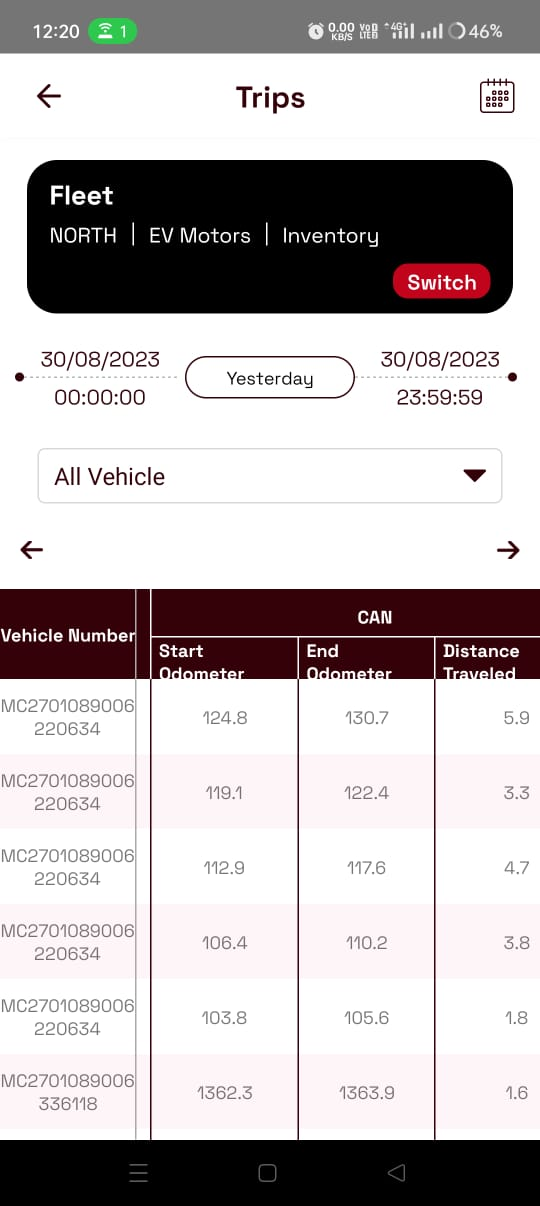
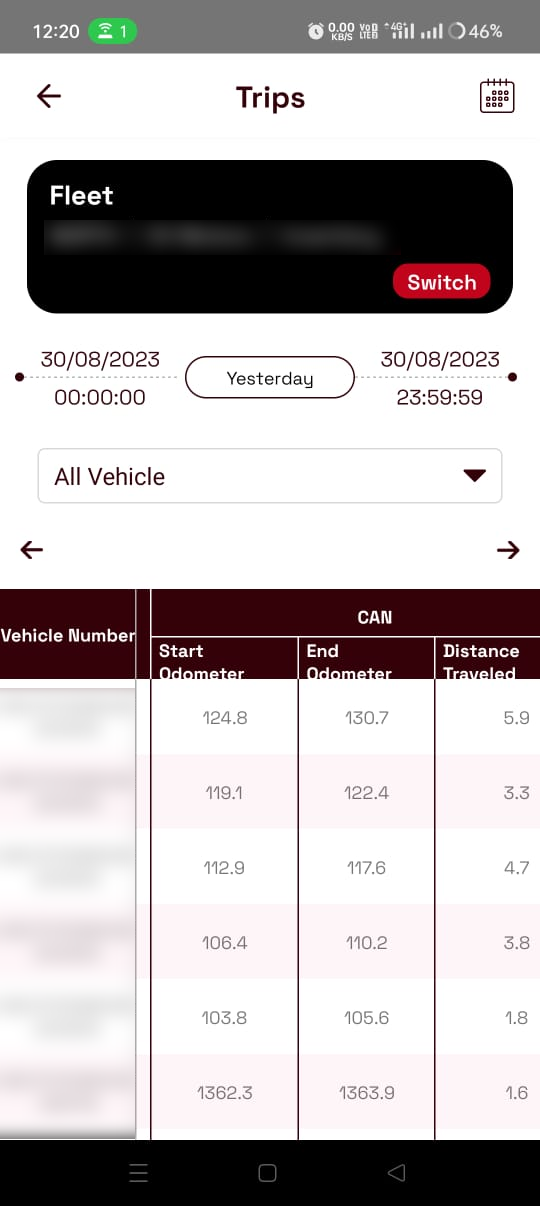
Modified the screenshots to blur sensitive data

diff --git a/index.html b/index.html
@@ -3,8 +3,9 @@
 
 <head>
   <meta charset="UTF-8" />
-  <title>Nivedhitha Parthasarathy — Senior Mobile Engineer</title>
+  <title>Nivedhitha Parthasarathy — Front-End &amp; Mobile Engineer</title>
   <meta name="viewport" content="width=device-width,initial-scale=1" />
+  <meta name="description" content="Front-End &amp; Mobile Engineer (React, React Native, iOS) based in Amsterdam. Portfolio of production apps across telematics, fleet operations and EV mobility." />
   <link
     href="https://fonts.googleapis.com/css2?family=DM+Serif+Display:ital@0;1&family=DM+Sans:ital,opsz,wght@0,9..40,300;0,9..40,400;0,9..40,500;0,9..40,600;1,9..40,400&display=swap"
     rel="stylesheet">
@@ -667,6 +668,36 @@
       border-radius: 100px;
     }
 
+    .card-links {
+      display: flex;
+      gap: 0.5rem;
+      flex-wrap: wrap;
+      align-items: center;
+      margin-top: 0.9rem;
+    }
+
+    .store-link {
+      font-size: 0.74rem;
+      font-weight: 500;
+      color: var(--text);
+      text-decoration: none;
+      border: 1px solid var(--card-accent-rgba, rgba(255, 255, 255, 0.2));
+      padding: 0.3rem 0.75rem;
+      border-radius: 100px;
+      transition: background 0.2s ease;
+    }
+
+    .store-link:hover,
+    .store-link:focus-visible {
+      background: var(--card-glow, rgba(255, 255, 255, 0.08));
+    }
+
+    .store-note {
+      font-size: 0.72rem;
+      font-style: italic;
+      color: var(--text-sub);
+    }
+
     /* ── CAROUSEL CONTROLS ── */
     .carousel-controls {
       max-width: 1100px;
@@ -1038,7 +1069,7 @@
         <div>
           <div class="hero-eyebrow">Available for new roles</div>
           <h1 class="hero-name">I build mobile apps<br>that feel <em>truly native.</em></h1>
-          <p class="hero-desc">Nivedhitha Parthasarathy — Senior Mobile Engineer with 6+ years across telematics, fleet
+          <p class="hero-desc">Nivedhitha Parthasarathy — Front-End &amp; Mobile Engineer with 6+ years across telematics, fleet
             operations, and EV mobility. React Native &amp; iOS apps that are fast, intentional, and quietly premium.
           </p>
           <div class="hero-stats">
@@ -1046,7 +1077,7 @@
             <div class="stat-divider"></div>
             <div class="stat-item"><span class="stat-num">4</span><span class="stat-label">Products shipped</span></div>
             <div class="stat-divider"></div>
-            <div class="stat-item"><span class="stat-num">40%</span><span class="stat-label">Perf. gains</span></div>
+            <div class="stat-item"><span class="stat-num">40%</span><span class="stat-label">Less tech debt</span></div>
           </div>
           <div class="hero-actions">
             <a href="#work" class="btn-gold">See my work <svg width="14" height="14" viewBox="0 0 24 24" fill="none"
@@ -1077,7 +1108,7 @@
       <div class="work-header reveal">
         <div class="section-eyebrow">Selected work</div>
         <h2 class="section-heading">Products I've helped ship</h2>
-        <p class="section-sub">Swipe or click through four production apps — tap a screen to bring it to the front.</p>
+        <p class="section-sub">Swipe or click through four production apps — tap a screen to bring it to the front. Screenshots are from the public App Store / Google Play listings.</p>
       </div>
 
       <div class="carousel-outer" id="carouselOuter">
@@ -1247,8 +1278,8 @@
               </svg></div>
             <div>
               <div class="contact-row-label">LinkedIn</div>
-              <div class="contact-row-val"><a href="https://linkedin.com/in/nivedhithap/"
-                  target="_blank">linkedin.com/in/nivedhithap</a></div>
+              <div class="contact-row-val"><a href="https://www.linkedin.com/in/nivedhithap/"
+                  target="_blank" rel="noopener noreferrer">linkedin.com/in/nivedhithap</a></div>
             </div>
           </div>
           <div class="contact-row">
@@ -1259,7 +1290,7 @@
             <div>
               <div class="contact-row-label">GitHub</div>
               <div class="contact-row-val"><a href="https://github.com/nivedhitha97"
-                  target="_blank">github.com/nivedhitha97</a></div>
+                  target="_blank" rel="noopener noreferrer">github.com/nivedhitha97</a></div>
             </div>
           </div>
         </div>
@@ -1287,6 +1318,22 @@
                       { "id": "fleetlive", "title": "Fleetlive", "accent": "#7B8FF5", "accentRgb": "123,143,245", "tagline": "EV fleet monitoring app \u2014 built from scratch to production", "about": "An enterprise EV fleet monitoring app for delivery companies operating two-wheelers across multiple cities. I owned this product end-to-end \u2014 from base architecture through every major feature to production release.", "contributions": ["Built the entire app from base architecture to production \u2014 designed the codebase structure, navigation, and data layer", "Implemented all major features: dashboard, live tracking, vehicle summaries, trip reports, and vehicle insights", "Designed and optimised map rendering, marker clustering, and real-time vehicle position updates", "Integrated FCM push notifications and Firebase Analytics for event tracking across the app", "Performed code restructuring, performance tuning, and image optimisation to improve load times", "Wrote API documentation in Postman and reported API vulnerabilities to the backend team", "Managed app versioning, store uploads, production hotfixes, and full release cycles end-to-end"], "tags": ["React Native", "Android", "Firebase", "FCM", "Maps", "Postman", "EV Fleet"], "screens": [["FT", "Live tracking"], ["FD", "Fleet dashboard"], ["FV", "Vehicle summary"], ["FR", "Trip reports"]] }, 
                       { "id": "mytvs", "title": "MyTVS DrivePlus", "accent": "#60A5FA", "accentRgb": "96,165,250", "tagline": "Vehicle management app \u2014 first-version feature build", "about": "A B2B vehicle management and fleet reporting app for enterprise clients. I worked on the initial version, building the foundational features that defined the app's structure and user experience.", "contributions": ["Built the initial app features from the ground up \u2014 login, dashboard, vehicle details, and data-driven UI screens", "Developed data-driven UI components that rendered live vehicle metrics, odometer readings, and alert breakdowns", "Ensured clean UI hierarchy and mobile-friendly layouts across different screen sizes", "Established the visual and structural patterns used as the baseline for subsequent app development"], "tags": ["iOS", "React Native", "UI Development", "Fleet Analytics", "B2B"], "screens": [["YR", "Report detail"], ["YS", "Vehicle summary"]] }, 
                       { "id": "montra", "title": "Montra Electric Driver", "accent": "#4ADE80", "accentRgb": "74,222,128", "tagline": "EV driver companion \u2014 deep infrastructure migration", "about": "A connected EV driver app for Montra Electric riders. My role was a deep engineering engagement \u2014 not UI work, but a critical infrastructure overhaul migrating the entire data layer to a new backend architecture.", "contributions": ["Migrated the entire data layer from AWS AppSync (GraphQL) to GCP REST API \u2014 a full backend integration overhaul", "Refactored all API integration logic to align with the new GCP backend structure and response contracts", "Upgraded React Native to a newer major version, resolving breaking changes across the dependency tree", "Updated and stabilised all supporting libraries affected by the RN version upgrade", "Ensured backward compatibility throughout the migration \u2014 no regressions to existing user-facing features", "Delivered a smooth, invisible migration: users saw no disruption; the engineering foundation was entirely replaced"], "tags": ["React Native", "GraphQL", "REST API", "AWS", "GCP", "Migration", "Infrastructure"], "screens": [["MV", "Vehicle management"], ["MP", "Driver profile"]] }];
+
+    // Public store listings for each product (Montra has been delisted)
+    const STORE_LINKS = {
+      assetmatics: [
+        { label: "App Store", url: "https://apps.apple.com/nl/app/assetmatics/id1604569404" }
+      ],
+      fleetlive: [
+        { label: "App Store", url: "https://apps.apple.com/in/app/fleetlive/id6455303398" },
+        { label: "Google Play", url: "https://play.google.com/store/apps/details?id=com.fleet.ev&hl=en" }
+      ],
+      mytvs: [
+        { label: "App Store", url: "https://apps.apple.com/in/app/mytvs-drive-plus/id6457254613" },
+        { label: "Google Play", url: "https://play.google.com/store/apps/details?id=com.nlcv.driveplus&hl=en" }
+      ],
+      montra: []
+    };
 
     // ── State ──
     let currentProj = 0;
@@ -1316,7 +1363,7 @@
 
       // Click inactive card → navigate to it
       card.addEventListener('click', (e) => {
-        if (pi !== currentProj && !e.target.closest('.card-tab') && !e.target.closest('.phone-slot') && !e.target.closest('.screen-dot')) {
+        if (pi !== currentProj && !e.target.closest('.card-tab') && !e.target.closest('.phone-slot') && !e.target.closest('.screen-dot') && !e.target.closest('.store-link')) {
           goToProj(pi);
         }
       });
@@ -1340,6 +1387,11 @@
 
       const tagsHTML = p.tags.map(t => `<span class="tag">${t}</span>`).join('');
 
+      const storeLinks = STORE_LINKS[p.id] || [];
+      const linksHTML = storeLinks.length
+        ? storeLinks.map(l => `<a class="store-link" href="${l.url}" target="_blank" rel="noopener noreferrer">${l.label} ↗</a>`).join('')
+        : `<span class="store-note">No longer listed on the App Store or Google Play</span>`;
+
       return `
     <div class="card-phone-stage">
       <div class="stage-glow" style="background:${p.accent};"></div>
@@ -1361,6 +1413,7 @@
         <ul class="contrib-list">${contribHTML}</ul>
       </div>
       <div class="card-tags">${tagsHTML}</div>
+      <div class="card-links">${linksHTML}</div>
     </div>`;
     }
 
